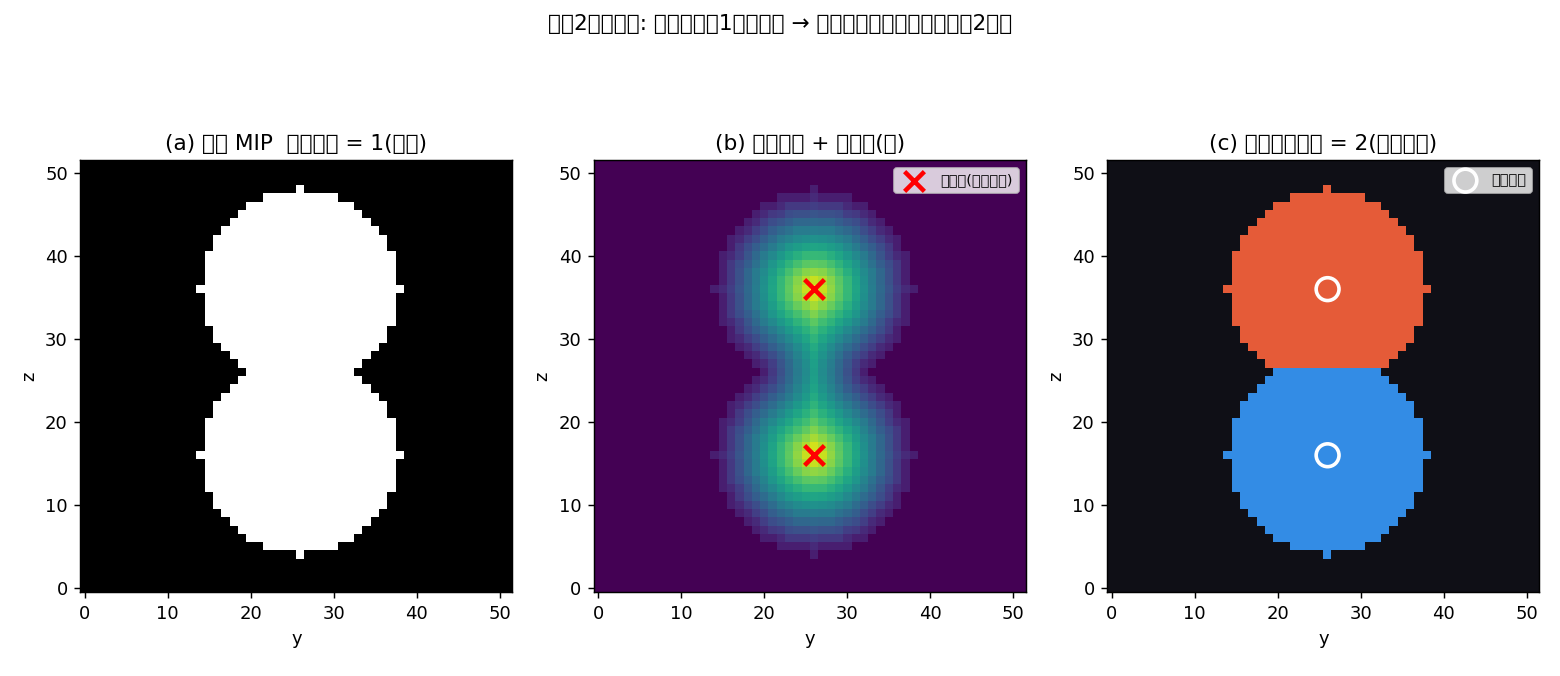
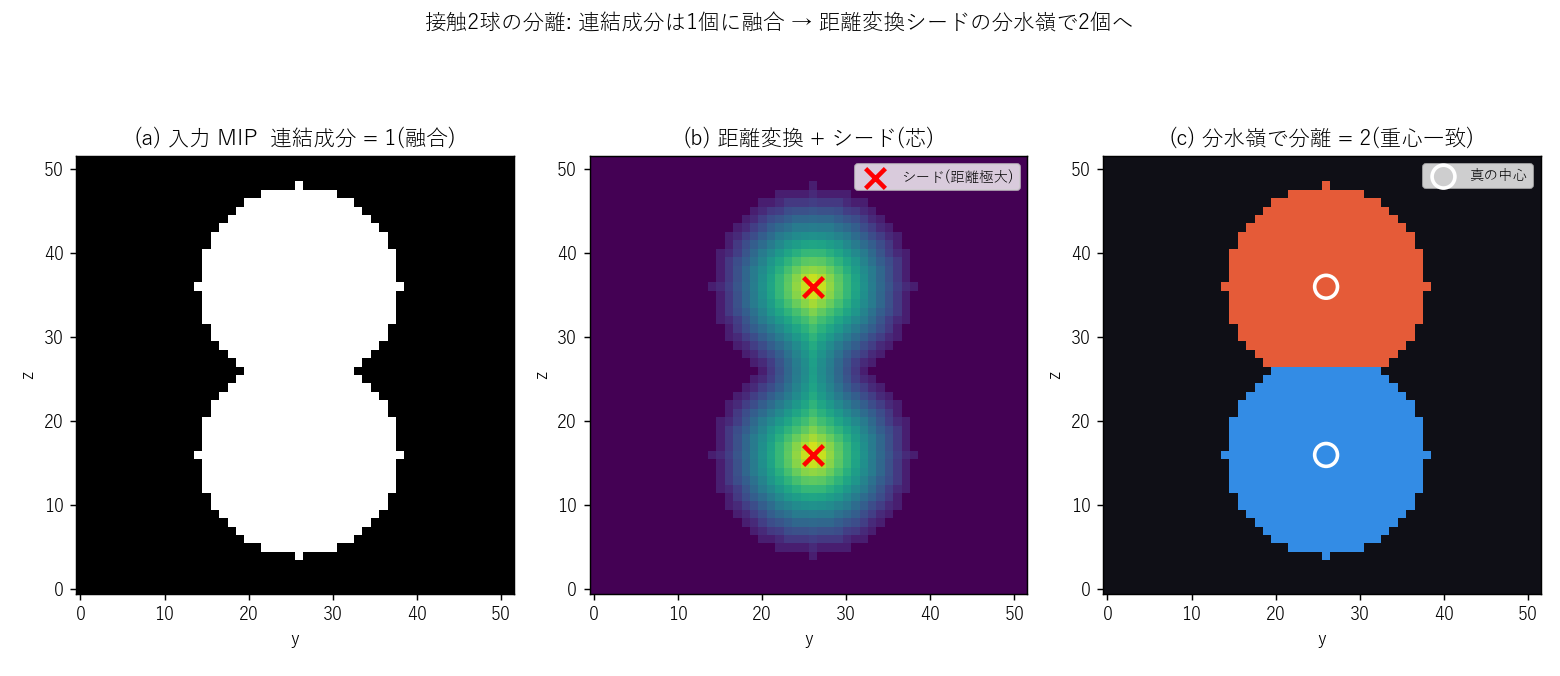
auto: mesh_props.py 編集前 (2026-08-28 12:52)

diff --git a/examples_3d/watershed3d.py b/examples_3d/watershed3d.py
@@ -148,8 +148,17 @@ def render_png(vol, dist_mip, markers, ws_labels, centers, out_path) -> bool:
         matplotlib.use("Agg")
         import matplotlib.pyplot as plt
         from matplotlib.colors import ListedColormap
+        import matplotlib.font_manager as fm
     except ImportError:
         return False
+
+    # 日本語ラベルが tofu(□)にならないよう、環境にある日本語対応フォントを先頭に置く。
+    installed = {f.name for f in fm.fontManager.ttflist}
+    for jp in ("Yu Gothic", "Meiryo", "Noto Sans JP", "MS Gothic", "BIZ UDGothic"):
+        if jp in installed:
+            plt.rcParams["font.family"] = jp
+            break
+    plt.rcParams["axes.unicode_minus"] = False
 
     # x 軸を投影(axis=2)→ (z,y) 断面 MIP。2 球は z 方向に並ぶので両方写る。
     bin_mip = vol.max(axis=2)
